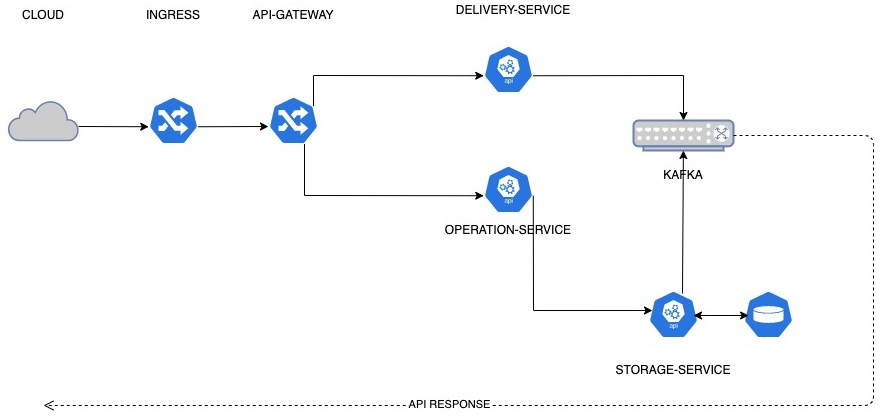
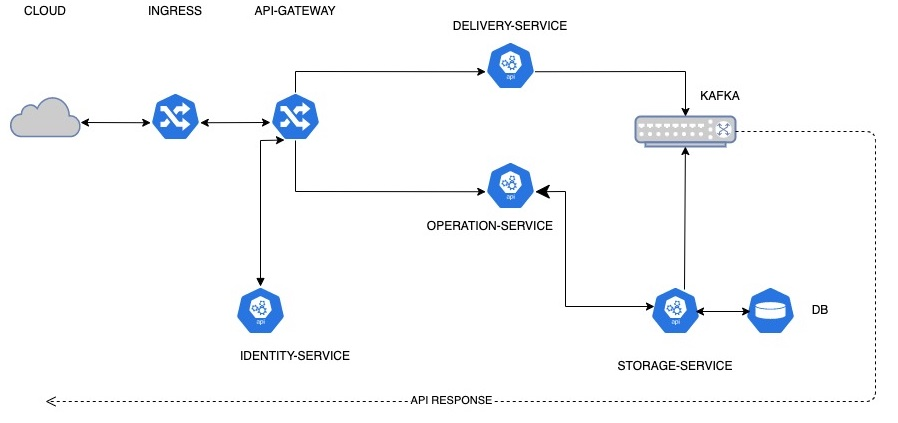
fix project description and README.md

diff --git a/README.md b/README.md
@@ -7,9 +7,10 @@
 ***
 #### Пользовательские сценарии
 
-* Пользователи (с ролью CONSUMER) должны регулярно получать инвестиционные новости для обеспечения своей инвестиционной деятельности
-* Пользователь (с ролью OPERATOR) должен иметь возможность модифицировать данные в системном хранилище данных
-* Пользователь (с ролью CONSUMER) должен иметь возможность получать список новостей за предыдущий период
+* Пользователи (Потребители) должны регулярно получать инвестиционные новости для обеспечения своей инвестиционной деятельности
+* Пользователь (Оператор) должен иметь возможность модифицировать данные в системном хранилище данных
+* Пользователь (Потребитель) должен иметь возможность получать список новостей за предыдущий период
+* Пользователь (Провайдер) должен иметь возможность отправить новость в контур организации
 
 ***
 #### Общая схема взаимодействия сервисов
@@ -20,24 +21,21 @@
 #### Функциональная схема API
 ![](pics/msa_scheme.jpg)
 
-`Целевые сервисы `DELIVERY-SERVICE`, `STORAGE-SERVICE` и `OPERATION-SERVICE` хранят у себя собственную авторизационную модель (ролевую модель) прав обращения к endpoint'ам.`
-***
 ***
 
-### Назначение каждого сервиса и его зона ответственности
-##
+### Назначение каждого сервиса и его зона ответственности ##
 
-| #   | Название сервиса    | Описание целей и обязанностей                                                                               | Зависимости                                                                                                                                                                                                  | Команды/запросы (краткое API)                                                                                                                                                                                                                                                                                                                                                                                                                                                                                                                                                                                                                                                                                                                                                                                                                                                                                                                                                                                                                                                                                                                                                                                                                                                   |
-|-----|---------------------|:------------------------------------------------------------------------------------------------------------|:-------------------------------------------------------------------------------------------------------------------------------------------------------------------------------------------------------------|---------------------------------------------------------------------------------------------------------------------------------------------------------------------------------------------------------------------------------------------------------------------------------------------------------------------------------------------------------------------------------------------------------------------------------------------------------------------------------------------------------------------------------------------------------------------------------------------------------------------------------------------------------------------------------------------------------------------------------------------------------------------------------------------------------------------------------------------------------------------------------------------------------------------------------------------------------------------------------------------------------------------------------------------------------------------------------------------------------------------------------------------------------------------------------------------------------------------------------------------------------------------------------|
-| 1   | `DELIVERY-SERVICE`  | Сервис получения инвестиционных новостей от провайдера в контур организации                                 | Отправляет полученные данные в Apache Kafka, получает данные из сервиса провайдера данных                                                                                                                    | **Получает новости от `API-GATEWAY`**:<br/><br/>POST /api/v1/news/push<br/><br/>В случае успешного ответа отдает 202 (ACCEPTED) и отправляет результат обработки в Apache Kafka (топик `news`), в случае неуспешного 500(INTERNAL SERVER ERROR) и 401 (UNAUTHORIZED) в случае отсутствия прав на вызов<br/><br/>**Формирует сообщения в Kafka (топик `news`):**<br/><br/>NewsDtoMessage:<br/><br/>- UUID uuid<br/>- String provider<br/>- OffsetDateTime publicationDate<br/>- String payload                                                                                                                                                                                                                                                                                                                                                                                                                                                                                                                                                                                                                                                                                                                                                                                   |
-| 2   | `STORAGE-SERVICE`   | Сервис сохрания и модификации данных                                                                        | Сохраняет данные в long term DB, использует для идемпотентности cache DB, отправляет ответы для Потребителя в Apache Kafka                                                                                   | **Подписан на Kafka (топик `news`):**<br/><br/>NewsDtoMessage:<br/><br/>- UUID uuid<br/>- String provider<br/>- OffsetDateTime publicationDate<br/>- String payload<br/> <br/> **Получает запросы на модификацию данных от `API-GATEWAY`**:<br/><br/>- POST /api/v1/db/news (получить список новостей за период) <br/>- PATCH /api/v1/db/news/modify/ (изменить данные по новости)  <br/><br/> В случае успешного ответа отдает 202 (ACCEPTED) и отправляет результат обработки в Apache Kafka (топик `operation`), в случае отсутствия данных за период отдает 204 (NO CONTENT) <br/><br/>**Формирует сообщения в Kafka (топик `operation`):**<br/><br/>KafkaMessageDto:<br/><br/>- List<News> news<br/><br/> В случае неуспешного ответа - 500(INTERNAL SERVER ERROR) и 401 (UNAUTHORIZED) в случае отсутствия прав на вызов <br/>                                                                                                                                                                                                                                                                                                                                                                                                                    |        
-| 3   | `OPERATION-SERVICE` | Сервис взаимодействия с Потребителем по модификации данных                                                  | Отправляет запросы на модификацию или получение данных в `STORAGE-SERVICE`, получает запросы на модификацию от сервиса Потребитель данных                                                                    | **Получает запросы на модификацию данных от `OPERATION-SERVICE`**:<br/><br/>- POST /api/v1/operations/news/ (получить список новостей за период) <br/>- PATCH /api/v1/operations/news/modify/ (изменить данные по новости)  <br/><br/> В случае успешного ответа отдает 202 (ACCEPTED), в случае отсутствия данных за период отдает 204(NO CONTENT), в случае неуспешного 500(INTERNAL SERVER ERROR) или 401 (UNAUTHORIZED) в случае отсутствия прав на вызов<br/>                                                                                                                                                                                                                                                                                                                                                                                                                                                                                                                                                                                                                                                                                                                                                                                                                    |                                                                                                                                                                                                    |
-| 4   | `API-GATEWAY`       | Сервис осуществляет аутентификацию входящих в контур МСА обращений. Проверяет JWT токен входящего обращения | Запрашивает у сервиса `IDENTITY-SERVICE` токена для пользователя и через него проводит валидацию. В случае успешной валидации JWT роутит запросы на целевые сервисы: `DELIVERY-SERVICE`, `OPERATION-SERVICE` | **Получает запросы от Потребителя**: <br/><br/>- POST /registration (body) (регистрация пользователя)<br/><br/>В случае успешного ответа приходит 200(SUCCESS)<br/><br/>- POST /login (body) (регистрация пользователя)<br/><br/>В случае успешного ответа приходит JWT пользователя <br/> <br/>**Получает запросы публикацию новых инвестиционных новостей от сервиса провайдера данных**: <br/><br/> - POST /news (body) (получает новости от сервиса провайдера, валидирует токена, достает из токена clientId и роутит запрос с хэддером -X-USER-CLIENT-ID на сервис `DELIVERY-SERVICE`<br/><br/> В случае успешного ответа отдает 202 (ACCEPTED), либо 500 (если ошибка сервиса получения новостей), либо 401 (UNAUTHORIZED)<br/><br/> **Получает запросы от Потребителя на модификацию данных в БД по инвестиционным новостям**: <br/><br/> - GET /api/v1/db/news/get/?startDate=...&endDate=... <br/>- PATCH /api/v1/db/news/modify/ <br/><br/>(получает запрос на модификаицю данных от Потребителя, валидирует токен, достает из токена clientId и роутит запрос с хэддером -X-USER-CLIENT-ID на сервис `OPERATION-SERVICE`<br/><br/> В случае успешного ответа отдает 202 (ACCEPTED), либо 500 (если ошибка сервиса модификации данных), либо 401 (UNAUTHORIZED)<br/><br/> |
-| 5   | `IDENTITY-SERVICE`  | Сервис хранения доступов пользователей                                                                      | Сохраняет данные в long term DB. Выдает JWT токен.                                                                                                                                                           | **Получает запросы на регистрацию и получение токена `API-GATEWAY`**: <br/><br/>- POST /api/v1/identity/registration (body)(регистрация пользователя)<br/><br/>В случае успешного ответа приходит 200(SUCCESS)<br/><br/>- POST /api/v1/identity/login (body) (вход пользователя и получение JWT)<br/><br/>В случае успешного ответа приходит JWT пользователя                                                                                                                                                                                                                                                                                                                                                                                                                                                                                                                                                                                                                                                                                                                                                                                                                                                                                                                   |
+| #   | Название сервиса    | Описание целей и обязанностей                                                                               | Зависимости                                                                                                                                                                                 | Команды/запросы (краткое API)                                                                                                                                                                                                                                                                                                                                                                                                                                                                                                                                                                                                                                                                                                                                                                                                                                                                                                                                                                                                                                                                                            |
+|-----|---------------------|:------------------------------------------------------------------------------------------------------------|:--------------------------------------------------------------------------------------------------------------------------------------------------------------------------------------------|--------------------------------------------------------------------------------------------------------------------------------------------------------------------------------------------------------------------------------------------------------------------------------------------------------------------------------------------------------------------------------------------------------------------------------------------------------------------------------------------------------------------------------------------------------------------------------------------------------------------------------------------------------------------------------------------------------------------------------------------------------------------------------------------------------------------------------------------------------------------------------------------------------------------------------------------------------------------------------------------------------------------------------------------------------------------------------------------------------------------------|
+| 1   | `DELIVERY-SERVICE`  | Сервис получения инвестиционных новостей от провайдера в контур организации                                 | Отправляет полученные данные в Apache Kafka, получает данные из сервиса провайдера данных                                                                                                   | **Получает новости от `API-GATEWAY`**:<br/><br/>POST /api/v1/news/push<br/><br/>В случае успешного ответа отдает 202 (ACCEPTED) и отправляет результат обработки в Apache Kafka (топик `news`), в случае неуспешного 500 (INTERNAL SERVER ERROR)<br/><br/>**Формирует сообщения в Kafka (топик `news`):**<br/><br/>NewsDtoMessage:<br/><br/>- UUID uuid<br/>- String provider<br/>- OffsetDateTime publicationDate<br/>- String payload                                                                                                                                                                                                                                                                                                                                                                                                                                                                                                                                                                                                                                                                                  |
+| 2   | `STORAGE-SERVICE`   | Сервис сохрания и модификации данных                                                                        | Сохраняет данные в long term DB, отправляет ответы для Потребителя в Apache Kafka                                                                                                           | **Подписан на Kafka (топик `news`):**<br/><br/>NewsDtoMessage:<br/><br/>- UUID uuid<br/>- String provider<br/>- OffsetDateTime publicationDate<br/>- String payload<br/> <br/> **Получает запросы на модификацию данных от `OPERATION-SERVICE`**:<br/><br/>- POST /api/v1/operation/news (получить список новостей за период) <br/>- POST /api/v1/operation/news/modify/ (изменить данные по новости)  <br/><br/> В случае успешного ответа отдает 202 (ACCEPTED) и отправляет результат обработки в Apache Kafka (топик `operation`), в случае отсутствия данных за период отдает 204 (NO CONTENT) <br/><br/>**Формирует сообщения в Kafka (топик `operation`):**<br/><br/>KafkaMessageDto:<br/><br/>- List<News> news<br/><br/> В случае неуспешного ответа - 500 (INTERNAL SERVER ERROR) <br/>                                                                                                                                                                                                                                                                                                                        |        
+| 3   | `OPERATION-SERVICE` | Сервис взаимодействия с Потребителем по модификации данных                                                  | Отправляет запросы на модификацию или получение данных в `STORAGE-SERVICE`, получает запросы на модификацию от сервиса Потребитель данных                                                   | **Получает запросы на модификацию данных от `API-GATEWAY`**:<br/><br/>- POST /api/v1/operations/news/ (получить список новостей за период) <br/>- POST /api/v1/operations/news/modify/ (изменить данные по новости)  <br/><br/> В случае успешного ответа отдает 202 (ACCEPTED), в случае отсутствия данных за период отдает 204 (NO CONTENT), в случае неуспешного 500 (INTERNAL SERVER ERROR)<br/>                                                                                                                                                                                                                                                                                                                                                                                                                                                                                                                                                                                                                                                                                                                     |                                                                                                                                                                                                    |
+| 4   | `API-GATEWAY`       | Сервис осуществляет аутентификацию входящих в контур МСА обращений. Проверяет JWT токен входящего обращения | Запрашивает у пользователя JWT через header запроса и проводит валидацию. В случае успешной валидации JWT сервис роутит запросы на целевые сервисы: `DELIVERY-SERVICE`, `OPERATION-SERVICE` | **Получает запросы от Потребителя**: <br/><br/>- POST /api/v1/identity/login (body) (получение JWT на пользователя)<br/><br/>В случае успешного ответа приходит JWT пользователя и роутится на целевой сервис `IDENTITY-SERVICE` <br/> <br/>**Получает запросы публикацию новых инвестиционных новостей от сервиса провайдера данных**: <br/><br/> - POST /api/v1/news/push (body) (получает новости от сервиса провайдера, валидирует токен и роутит запрос на сервис `DELIVERY-SERVICE`<br/><br/> В случае успешного ответа отдает 202 (ACCEPTED), либо 500 (если ошибка сервиса получения новостей), либо 401 (UNAUTHORIZED)<br/><br/> **Получает запросы от Потребителя на модификацию данных в БД по инвестиционным новостям**: <br/><br/> - POST /api/v1/operations/news/(body) <br/>- POST /api/v1/operations/news/modify/ (body) <br/><br/>(получает запрос на модификаицю данных от Потребителя, валидирует токен и роутит запрос на сервис `OPERATION-SERVICE`<br/><br/> В случае успешного ответа отдает 202 (ACCEPTED), либо 500 (если ошибка сервиса модификации данных), либо 401 (UNAUTHORIZED)<br/><br/> |
+| 5   | `IDENTITY-SERVICE`  | Сервис хранения доступов пользователей                                                                      | Сохраняет данные в long term DB. Выдает JWT токен.                                                                                                                                          | **Получает запросы на регистрацию и получение токена от `API-GATEWAY`**: <br></br> - POST /api/v1/identity/login (body) (вход пользователя и получение JWT)<br/><br/>В случае успешного ответа приходит JWT пользователя                                                                                                                                                                                                                                                                                                                                                                                                                                                                                                                                                                                                                                                                                                                                                                                                                                                                                                 |
 
 #### _Дополнительно используется в проекте:_
 * Сервис, эмулирующий отправку данных (сервис провайдера данных) - по расписанию отправляет данные клиенту на `POST /api/v1/news/push (body)`
-* Сервис, эмулирующий получение данных потребителем из Apache Kafka - (подписан на топики `news` и `operation`)
+* Сервис, эмулирующий получение данных Потребителем из Apache Kafka - (подписан на топики `news` и `operation`)
 
 
 ### Запуск проекта
